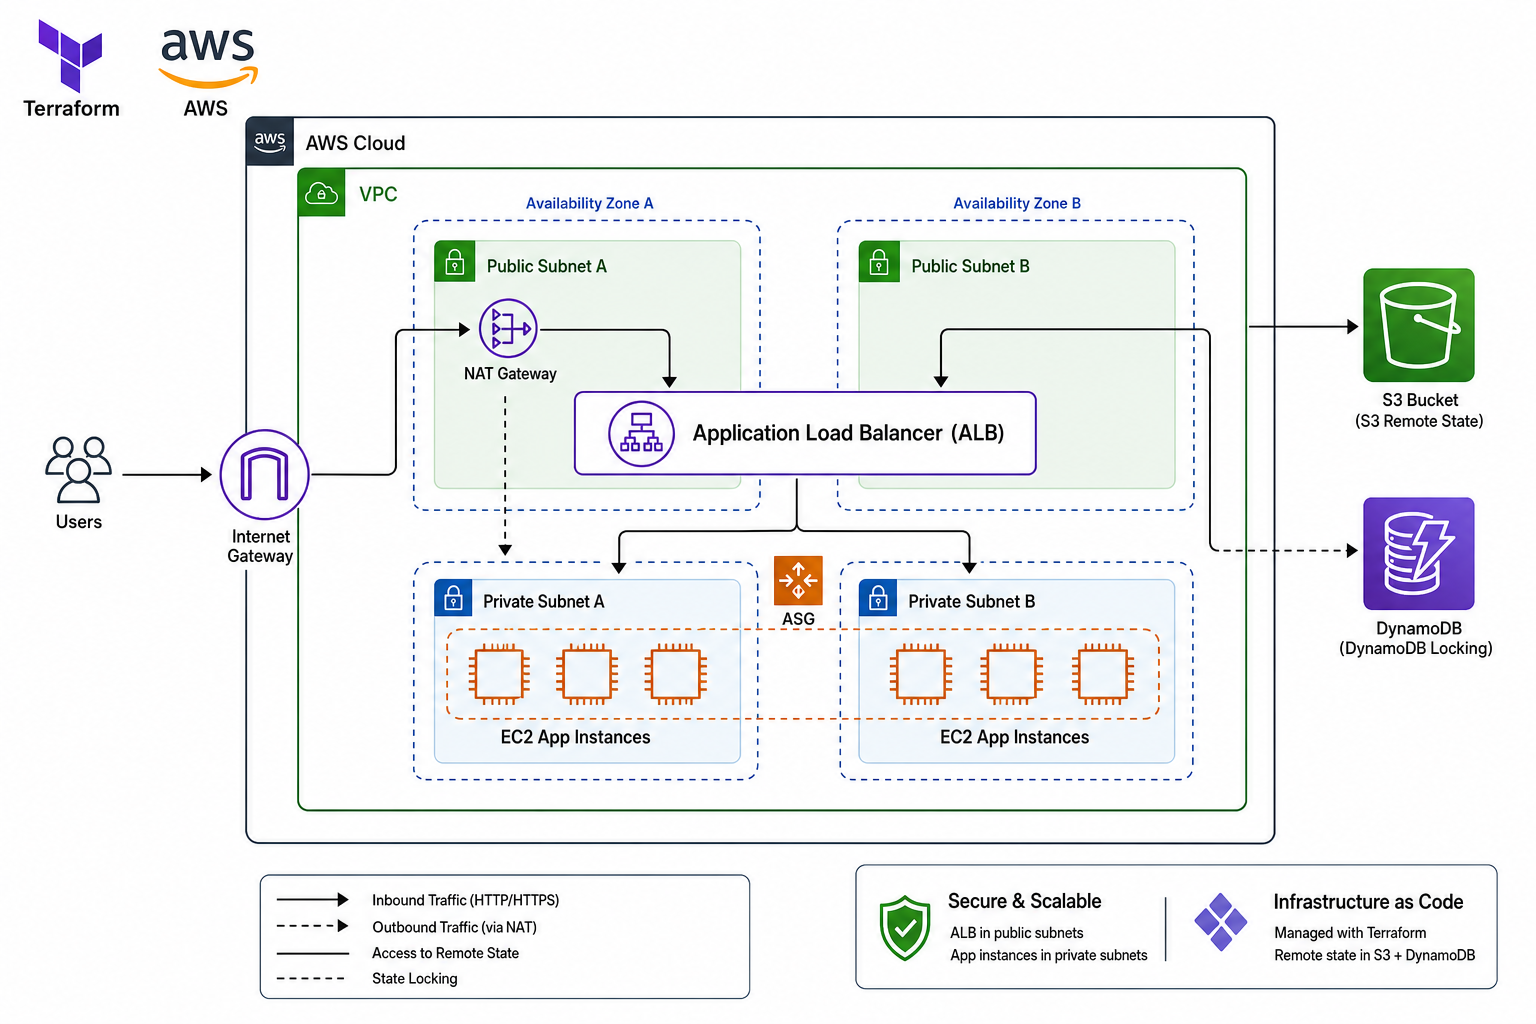
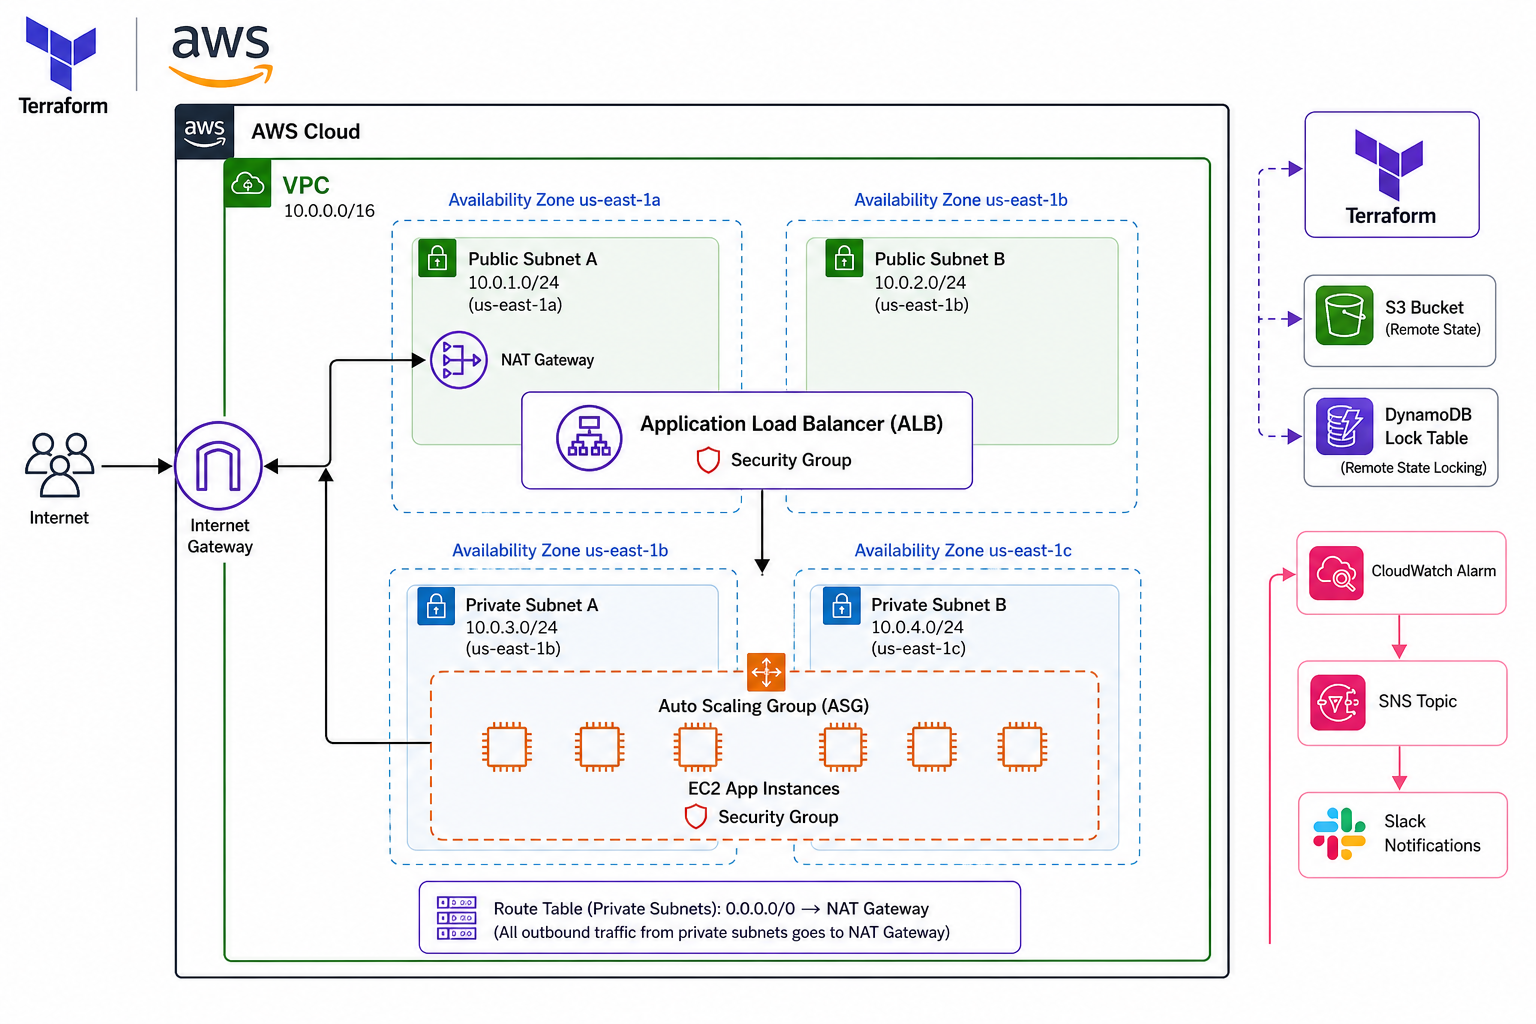
Update NOTES.md and README.md with build order and project details; remove EC2 instance configurations

diff --git a/NOTES.md b/NOTES.md
@@ -73,3 +73,31 @@ This file is for quick reminders about what the infrastructure does.
 
 - Use snake_case for Terraform resource names and variables.
 - Prefer clear names like `main`, `public`, and `private` over vague names like `thing` or `myVpc`.
+
+## Recommended Build Order
+
+1. Create the VPC first.
+2. Create the public and private subnets.
+3. Create the Internet Gateway.
+4. Create the NAT Gateway in a public subnet.
+5. Create the route tables.
+6. Associate the route tables with the subnets.
+7. Create security groups.
+8. Create IAM role, instance profile, and S3 permissions for EC2.
+9. Create the launch template for the app instances.1
+10. Create the target group for the ALB.
+11. Create the Application Load Balancer in the public subnets.
+12. Create the listener on the ALB.
+13. Create the Auto Scaling Group in the private subnets and attach it to the target group.
+14. Create the CloudWatch alarm.
+15. Create the SNS topic subscription for alert delivery.
+16. Bootstrap remote state with S3 and DynamoDB before using the main backend.
+
+## Why This Order Works
+
+- Networking must exist before instances and load balancers can attach to it.
+- Security groups and IAM must exist before EC2 can launch cleanly.
+- The ALB needs a target group before it can forward traffic.
+- The Auto Scaling Group needs the launch template, subnets, and target group already in place.
+- Monitoring comes after the app layer exists, because it needs real targets to watch.
+- Remote state bootstrap is separate because the backend bucket and lock table must already exist before the main Terraform stack can use them.

diff --git a/README.md b/README.md
@@ -1,6 +1,6 @@
 # Terraform AWS Lab
 
-This project builds a small AWS network and compute setup with Terraform.
+This project builds a multi-AZ AWS network and application stack with Terraform.
 
 ## Architecture
 
@@ -20,6 +20,7 @@ This project builds a small AWS network and compute setup with Terraform.
 - an Auto Scaling Group for private app instances
 - an S3 bucket
 - an IAM role and instance profile so EC2 can access S3
+- CloudWatch CPU alarm with SNS alert delivery
 - a security group for web instances
 
 ## Project Layout
@@ -31,8 +32,8 @@ This project builds a small AWS network and compute setup with Terraform.
 - `alb.tf`: application load balancer and target group
 - `autoscaling.tf`: launch template and Auto Scaling Group
 - `security_groups.tf`: security group rules
-- `ec2.tf`: EC2 instances
 - `s3.tf`: S3 bucket and IAM access for EC2
+- `monitoring.tf`: CloudWatch alarm and SNS alerts
 - `outputs.tf`: useful IDs after apply
 - `bootstrap/`: one-time setup for S3 backend and DynamoDB locking
 
@@ -71,6 +72,7 @@ terraform destroy
 - Use CloudWatch alarms for monitoring and route alerts through SNS.
 - Use a Slack bridge or webhook only for notifications, not for storing secrets.
 - Prefer private subnets for app servers and keep only the load balancer public.
+- Use Auto Scaling Groups instead of standalone EC2 instances for app workloads.
 
 ## Notes
 
